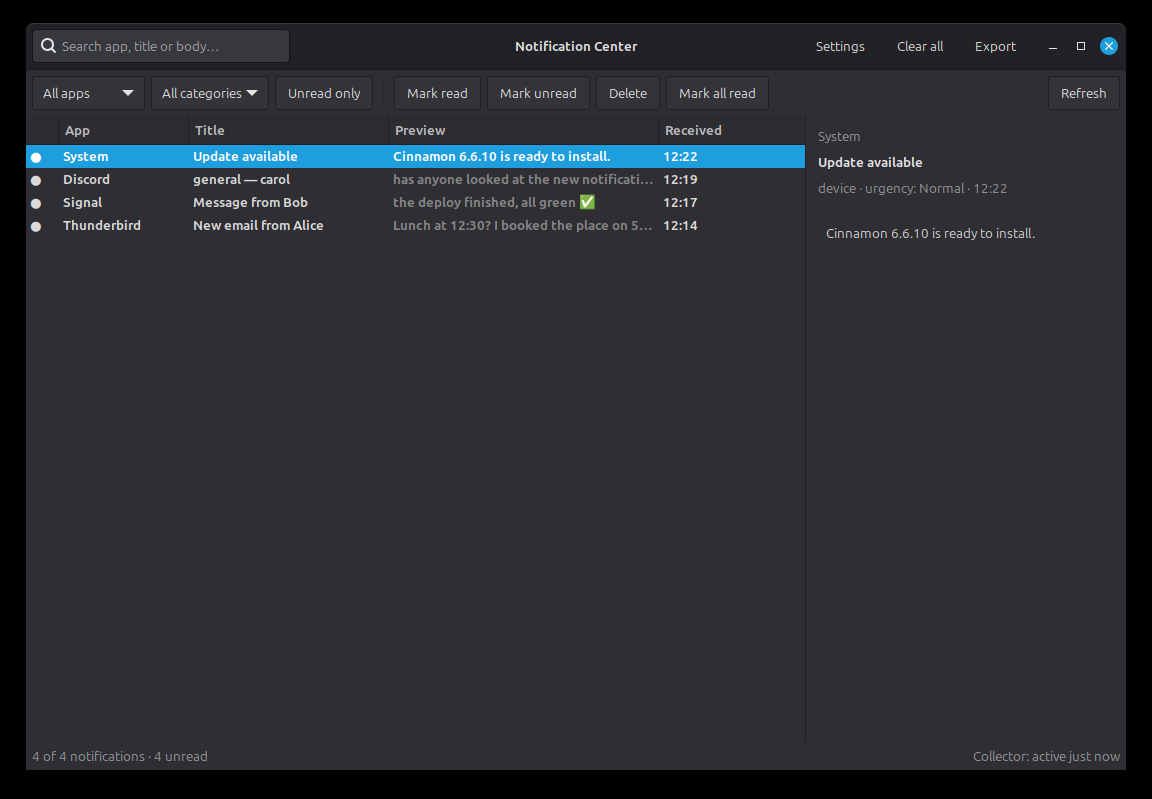
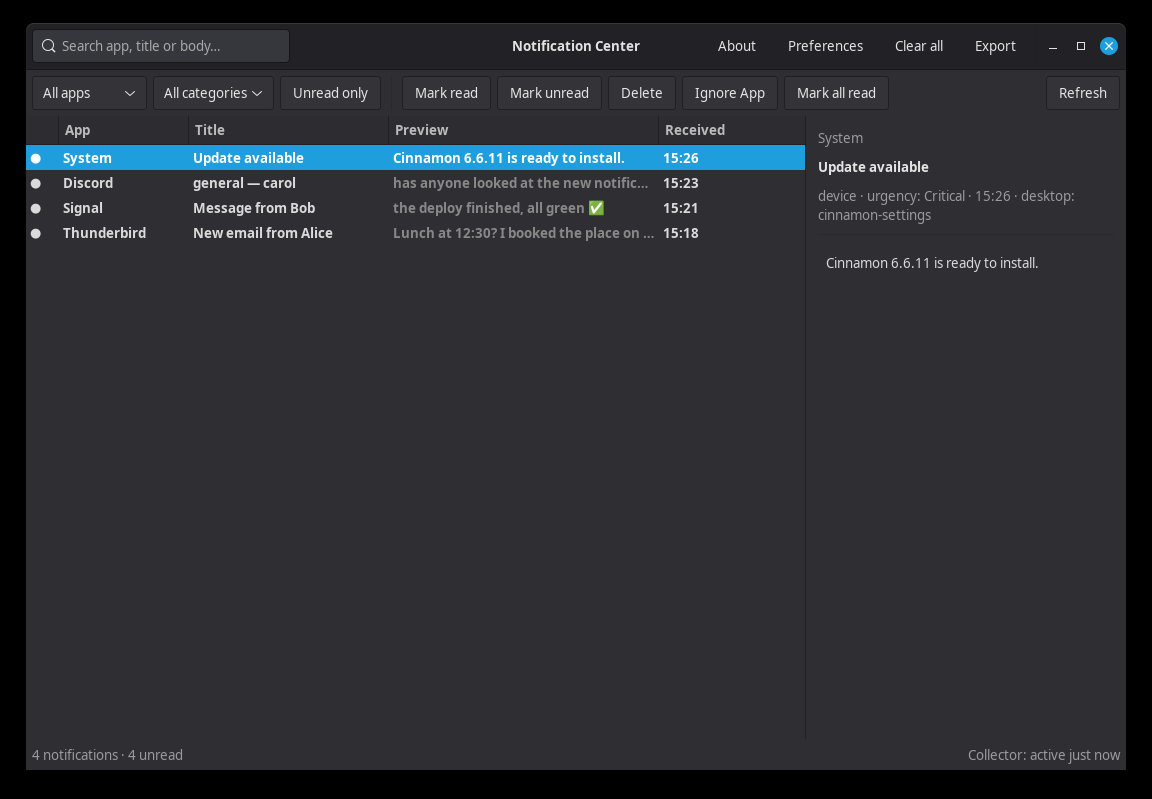
Docs: refresh screenshot and current behavior
- Replace the stale viewer screenshot (old Settings button, old
  notification count) with the current Preferences/Ignore App UI.
- Remove the deleted Review notification settings... menu item.
- Describe the new-install replacement default instead of saying
  Cinnamon's native UI is untouched.
- Document the .deb system paths and removal, --settings, the optional
  config file, and the actual cause of missing Cinnamon popups.
- Mention ignored.json in the privacy section.

diff --git a/README.md b/README.md
@@ -15,18 +15,17 @@ notification, search it, mark things read, and get an unread badge in the panel.
 
 - **Applet** — shows an unread count in the panel. Click it for a menu with
   *Open Notification Center* and *Notification preferences…*; middle-click
-  opens the viewer directly. Until a config file exists, a *Review notification
-  settings…* item is shown first. If the collector is not running, the icon
-  switches to a warning icon and the tooltip explains. With
-  `dismiss_after_capture`, it also removes each recorded notification from
-  Cinnamon's own popup and tray; `toast_enabled` and `sound_enabled` show its
-  own popup and play a sound (both on by default for new installs).
+  opens the viewer directly. If the collector is not running, the icon switches
+  to a warning icon and the tooltip explains. With `dismiss_after_capture`, it
+  also removes each recorded notification from Cinnamon's own popup and tray;
+  `toast_enabled` and `sound_enabled` show its own popup and play a sound (both
+  on by default for new installs).
 - **Viewer** — search across app, title and body; filter by app, category or
   unread; mark read/unread, mark all read, delete, **Ignore App** for selected
   notifications, or clear all; export the current view as JSON. **Preferences**
-  edits popups, sound, Cinnamon replacement and history limits; double-click
-  marks a notification read, and launching again focuses the existing window
-  instead of opening a second copy.
+  edits popups, sound, Cinnamon replacement, history limits and the ignored /
+  persistent lists; double-click marks a notification read, and launching again
+  focuses the existing window instead of opening a second copy.
 - **Collector** — a small `systemd --user` service that turns spooled
   notifications into a local SQLite history with retention and size limits.
 
@@ -36,10 +35,10 @@ Cinnamon already implements `org.freedesktop.Notifications`, so nothing outside
 the shell can observe notifications. This applet hooks notification delivery
 inside the Cinnamon applet (same JS process as the shell), writes one small
 JSON file per notification, and the Python collector turns those files into
-SQLite. Cinnamon's native notification UI is untouched by default; the optional
-`dismiss_after_capture` setting closes a notification in Cinnamon after it has
-been recorded, and `toast_enabled` / `sound_enabled` make the applet draw and
-play its own notification instead.
+SQLite. New installs default to replacement: the applet draws its own toast and
+plays a sound, and Cinnamon's native popups are turned off. Existing configs
+can keep Cinnamon's popups (record-only), or use `dismiss_after_capture` to
+close them once recorded.
 
 ```
 application
@@ -109,6 +108,13 @@ When installed from a terminal with `sudo`, the package starts the collector in
 your session immediately. A GUI installer that does not expose the user starts
 it at the next login instead. The applet still has to be added to the panel
 once, as above.
+
+The package installs system-wide under `/usr/bin`, `/usr/lib/notify-center`,
+`/usr/share/cinnamon/applets`, `/usr/lib/systemd/user` and
+`/etc/xdg/autostart`. User data and configuration stay in the same
+`~/.local/share/notify-center` and `~/.config/notify-center` paths. Remove it
+with `sudo apt purge notify-center`; `dpkg` does not delete your history or
+config, so remove those directories yourself if you want them gone.
 
 ---
 
@@ -254,7 +260,7 @@ stays in Cinnamon.
 ~/.local/share/notify-center/ignored.json           # 0600, ignored counter
 ~/.local/share/notify-center/spool/                 # 0700
 ~/.local/share/notify-center/failed/                # bad spool files
-~/.config/notify-center/config.json
+~/.config/notify-center/config.json                 # created on Save/Edit
 ~/.config/systemd/user/notify-center-collector.service
 ~/.local/share/applications/notify-center.desktop
 ```
@@ -293,6 +299,7 @@ Viewer:
 
 ```bash
 notify-center-viewer
+notify-center-viewer --settings    # open Preferences directly
 notify-center-viewer --version
 ```
 
@@ -342,9 +349,10 @@ counter file was created.
 
 **Cinnamon's own popups never show up**
 
-Check `dismiss_after_capture` in the config. When it is `true`, every
-notification the applet records is closed in Cinnamon immediately after
-capture; set it to `false` to get Cinnamon's normal popups and tray back.
+New installs turn Cinnamon's popups off automatically. Open **Notification
+preferences…** and choose **Cinnamon's own notification popups**, then **Save**.
+Also check `dismiss_after_capture`: when it is `true`, every notification the
+applet records is closed in Cinnamon immediately after capture.
 
 **notify-center's toasts never show up**
 
@@ -386,8 +394,8 @@ Confirm the files are in
 ## Privacy
 
 Notification bodies can contain message text, email subjects and 2FA codes. The
-database and status file are created with mode `0600`; the data and spool
-directories use `0700`. Nothing is sent off the machine. Set
+database, status file, ignored counter and config are created with mode `0600`;
+the data and spool directories use `0700`. Nothing is sent off the machine. Set
 `retention_days` and `max_rows` to keep history small, or run
 `uninstall-notify-center.sh --purge` to remove it entirely.
 
